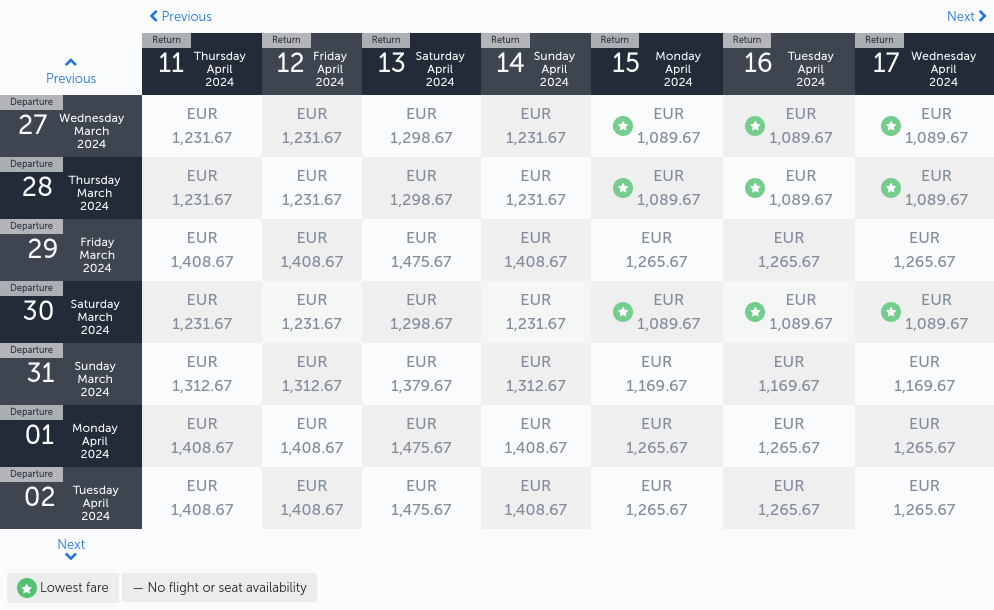
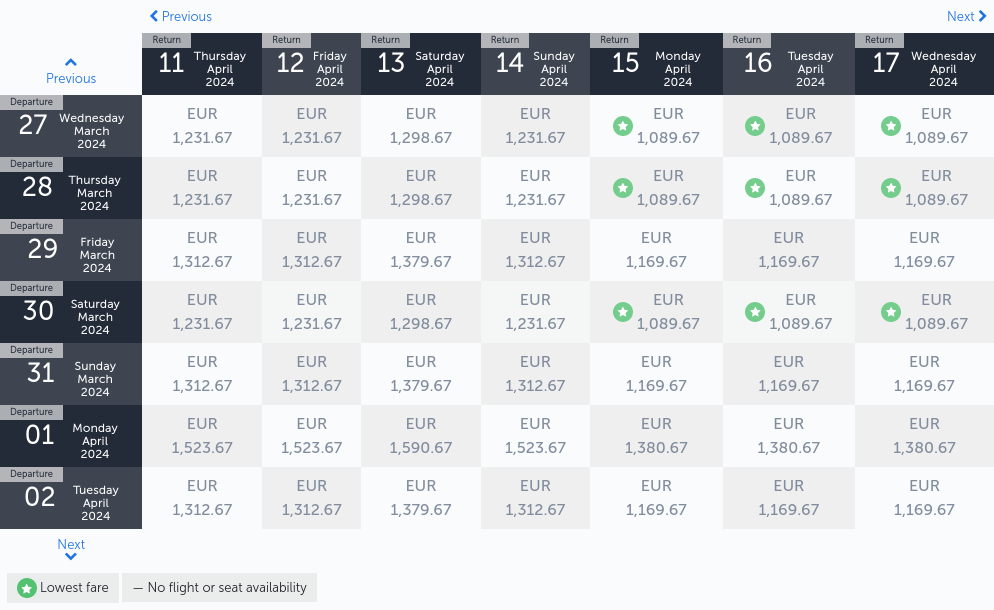
Latest scraping taiwan: Thu Jun  1 16:42:59 UTC 2023

diff --git a/scrapes/taiwan/turkish-airlines.md b/scrapes/taiwan/turkish-airlines.md
@@ -4,11 +4,11 @@
 | --- | --- | --- | --- | --- | --- | --- | --- |
 | Departure<br><br>27 Wednesday March 2024 | EUR1,231.67 | EUR1,231.67 | EUR1,298.67 | EUR1,231.67 | EUR1,089.67 | EUR1,089.67 | EUR1,089.67 |
 | Departure<br><br>28 Thursday March 2024 | EUR1,231.67 | EUR1,231.67 | EUR1,298.67 | EUR1,231.67 | EUR1,089.67 | EUR1,089.67 | EUR1,089.67 |
-| Departure<br><br>29 Friday March 2024 | EUR1,408.67 | EUR1,408.67 | EUR1,475.67 | EUR1,408.67 | EUR1,265.67 | EUR1,265.67 | EUR1,265.67 |
+| Departure<br><br>29 Friday March 2024 | EUR1,312.67 | EUR1,312.67 | EUR1,379.67 | EUR1,312.67 | EUR1,169.67 | EUR1,169.67 | EUR1,169.67 |
 | Departure<br><br>30 Saturday March 2024 | EUR1,231.67 | EUR1,231.67 | EUR1,298.67 | EUR1,231.67 | EUR1,089.67 | EUR1,089.67 | EUR1,089.67 |
 | Departure<br><br>31 Sunday March 2024 | EUR1,312.67 | EUR1,312.67 | EUR1,379.67 | EUR1,312.67 | EUR1,169.67 | EUR1,169.67 | EUR1,169.67 |
-| Departure<br><br>01 Monday April 2024 | EUR1,408.67 | EUR1,408.67 | EUR1,475.67 | EUR1,408.67 | EUR1,265.67 | EUR1,265.67 | EUR1,265.67 |
-| Departure<br><br>02 Tuesday April 2024 | EUR1,408.67 | EUR1,408.67 | EUR1,475.67 | EUR1,408.67 | EUR1,265.67 | EUR1,265.67 | EUR1,265.67 |
+| Departure<br><br>01 Monday April 2024 | EUR1,523.67 | EUR1,523.67 | EUR1,590.67 | EUR1,523.67 | EUR1,380.67 | EUR1,380.67 | EUR1,380.67 |
+| Departure<br><br>02 Tuesday April 2024 | EUR1,312.67 | EUR1,312.67 | EUR1,379.67 | EUR1,312.67 | EUR1,169.67 | EUR1,169.67 | EUR1,169.67 |
 | Next |
 | Lowest fare — No flight or seat availability |     |     |     |     |     |     |     |
 
